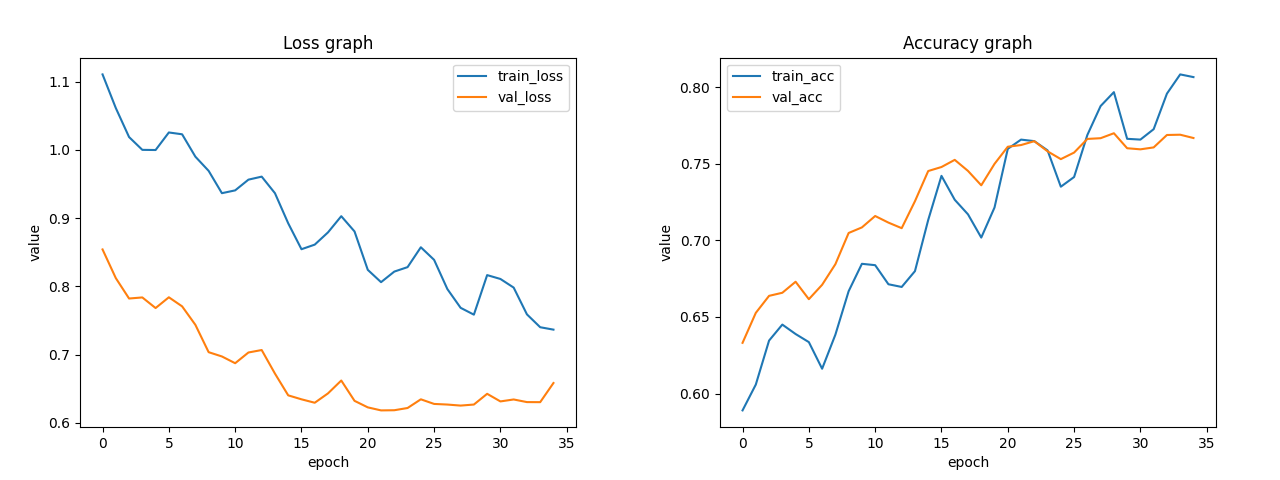
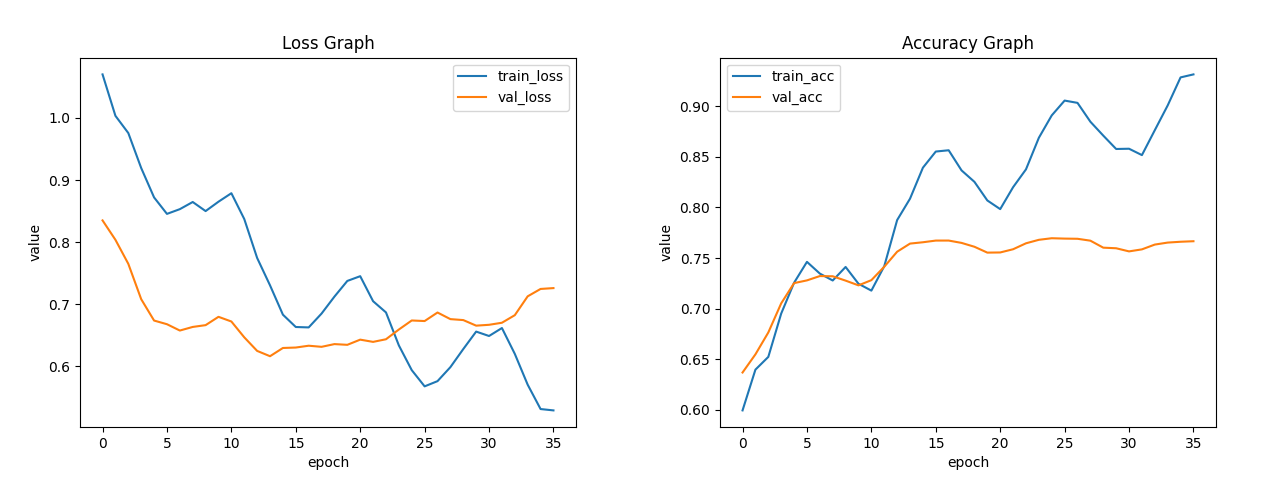
update

diff --git a/5.model.py b/5.model.py
@@ -415,7 +415,7 @@ if __name__ == '__main__':
 
   ## For optimizer & scheduler
   optimizer_name = "adamw"  # adam | adamw | sgd
-  learning_rate = 1e-3      # 1e-3 | 1e-4  | 5e-5
+  learning_rate = 1e-4      # 1e-3 | 1e-4  | 5e-5
   lr_decay = 0.0            # 0.0  | 0.8 
   weight_decay = 1e-8       # 0    | 1e-8 
   scheduler_name = "cd"     # none | cd    | cdwr  
